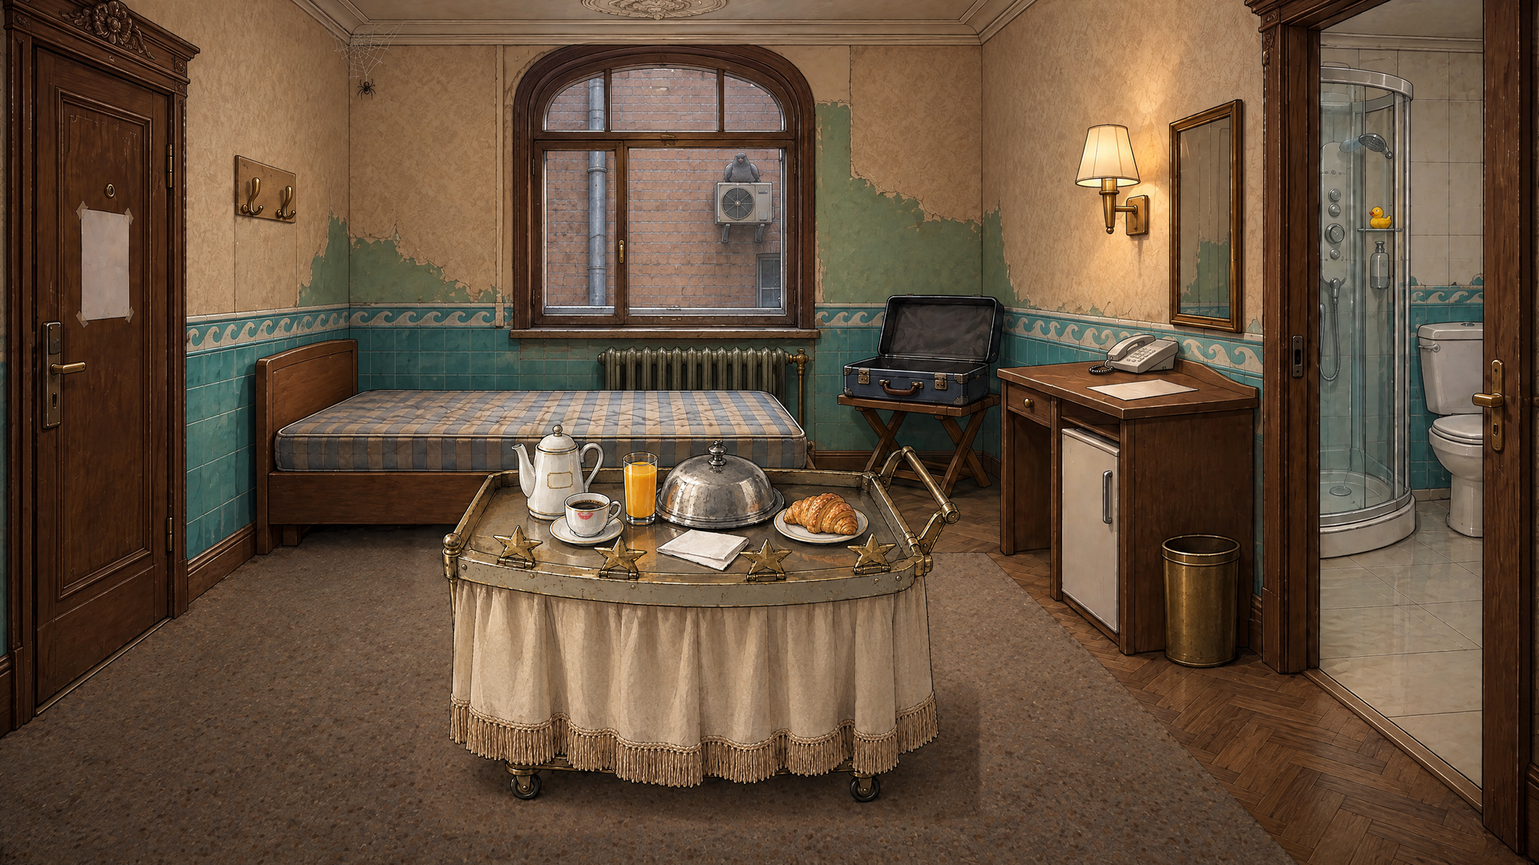
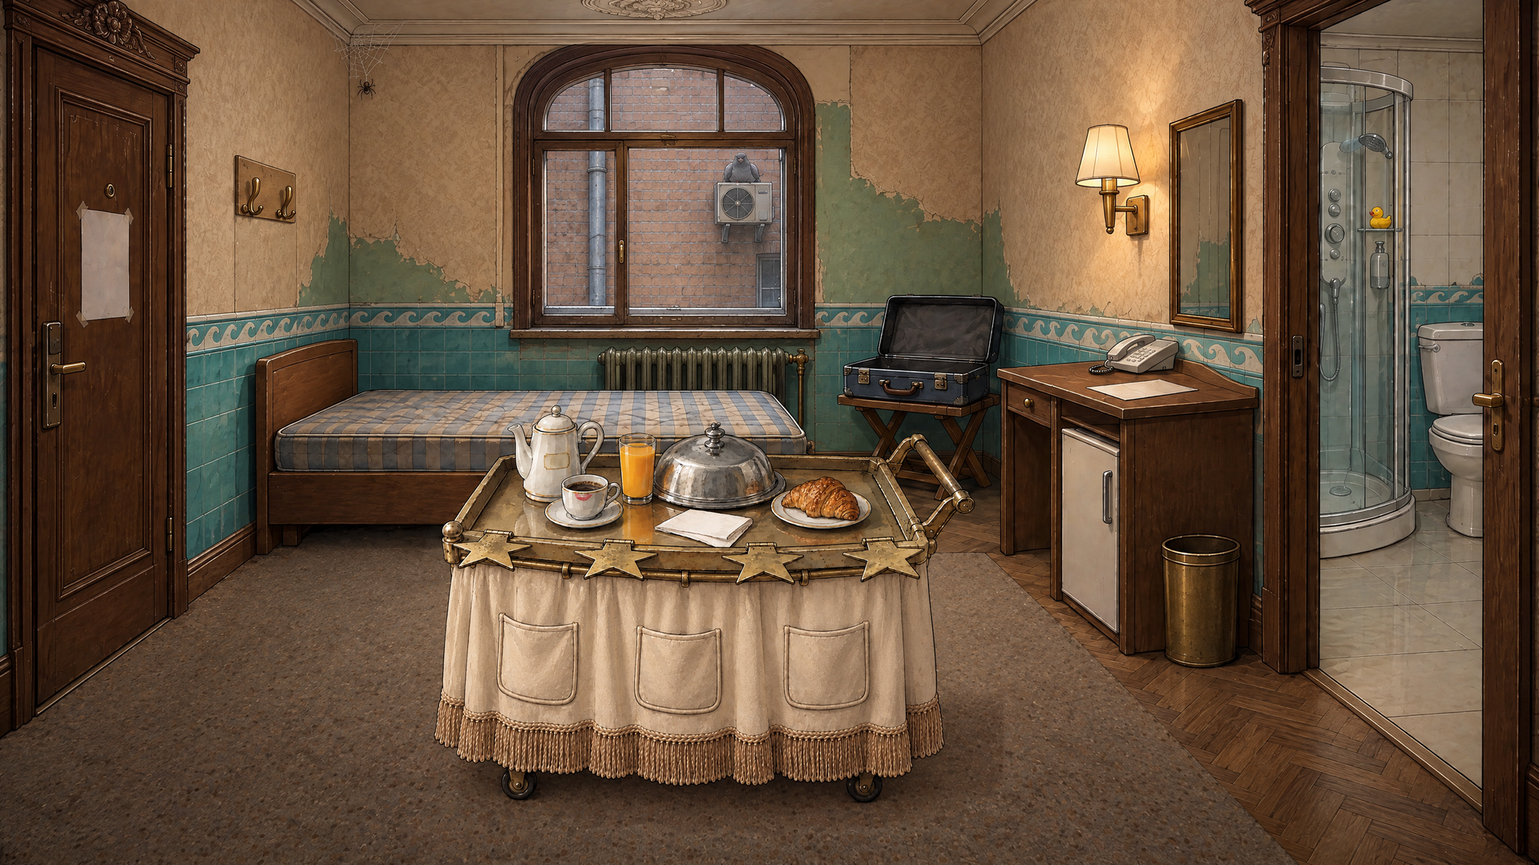
Z03-состояния приняты автором (шторка А); на приёмку: шторка при откинутых звёздах и тележка в номере W1
- assets: st_z03_stars_folded, st_z03_skirt_open, st_z03_juice_empty; кадры-варианты в work/higgsfield/variants
- спека: st_z03_skirt_open_folded (слои шторки и звёзд не складываются)
- кандидаты cutouts_1010: st_z03_skirt_open_folded, st_w1_trolley, st_w1_trolley_folded (+alt), st_w1_juice_empty
- прежние st_w1_* из cutouts_0910 удалены как устаревшие
- лист sheet_1010_w1_trolley.png, статус

Claude-Session: https://claude.ai/code/session_01KtQKgqP4XoDbZ9H4UhrjXu

Changed region(s): [[0.2812, 0.4583, 0.6562, 0.9472]]

diff --git a/PROJECT_STATUS_HYDROUDAR.md b/PROJECT_STATUS_HYDROUDAR.md
@@ -4,6 +4,7 @@
 
 ## Точка входа для новой сессии
 
+- ★★★ **10.10.2026, вечер — тележка: Z03 принят, W1 на приёмке.** Автор принял новую `zoom_z03` (звёзды в ряд вдоль переднего борта) и её состояния `st_z03_stars_folded`, `st_z03_skirt_open` (вариант А — шторка вправо), `st_z03_juice_empty` — в `assets/` (кадры-варианты — `work/higgsfield/variants/`, `accept` в журнале). Слои «шторка» и «звёзды откинуты» друг на друга не ложатся — добавлено состояние `st_z03_skirt_open_folded` (спека: графика 263). **Ждёт автора:** лист `work/higgsfield/sheet_1010_w1_trolley.png` — `st_z03_skirt_open_folded`, `st_w1_trolley`, `st_w1_juice_empty`, `st_w1_trolley_folded` (вар. 1 на петлях, как в Z03, рекомендован; вар. 2 на кольцах — `alt/`); кандидаты и параметры — `work/higgsfield/candidates/cutouts_1010/README.md`. Прежние `st_w1_*` (звёзды по углам) удалены. Дальше — тележка в W2/W4/W5, затем остаток пакета 2.
 - ★★★ **10.10.2026 — автор подтвердил правленые реплики тележки; шутка про хлам — дословно.** Строка автора «Вы хотите спросить, где голый мужчина прячет столько хлама? Не спрашивайте.» — в `Z04.map.take` (Акт II, третьей репликой после Изольды; `texts/AUTHOR_LINES.json`, ТЗ II), единственное осознанное исключение из запрета на четвёртую стену (`texts/STYLE_AUTHOR.md`). Итог Акта II и слой пересобраны; check_texts 0/0 ×4, тесты 146 OK. **Дальше — арт тележки:** новая `zoom_z03` (звёзды по углам горизонтально, юбка-шторка с кармашками), затем `st_z03_*`, `st_w1_trolley*`, тележка в W2/W4/W5.
 - ★★★ **09.10.2026, ночь (ещё позже) — устройство тележки, решение автора.** Звёзды по углам — горизонтальные откидные «крылья» за бортиком (как у настоящих столиков room service), откидываются наружу, к бортику; юбка — шторка на кольцах на вклёпанной штанге, с кармашками (там Лапидус возит вещи; автор: «не будем делать из этого проблему»); пластина 1908 года — на раме внутри, её прячет юбка (дыра исходного сценария: звёзды пластину закрыть не могли). Внесено: граф Акта I (`plate_revealed` — A04 или A08, не A06; AS21; солвер — 10 обязательных, 0 ошибок), сдача Акта I (P02 и «Изменения 10.2026»), ТЗ I 1.5 / II 1.9 / IV 1.3, тексты через `texts/rewrite/ACT1/2/4_TEXTS_EDITS.md` (8 слотов Акта I, `Z05.vitrine.push`, `SEQ.trolley_return`, `W5.cover.skirt`), итоги и слой пересобраны (check_texts 0/0 ×4, check_slot_flags 0, тесты 146 OK, шрифты PASS), спека (§1.4а, Z03, `st_w1_trolley*`, `st_z03_*`, `st_w5_trolley`, `ov_skirt_open`, §13), GDD, handoff (P02, signature tool). **Ждёт автора:** чтение правленых реплик; шутка автора «Вы хотите спросить, где голый мужчина прячет столько хлама? Не спрашивайте» — расходится с правилом «четвёртая стена не ломается» (решение автора 04.10.2026, WRITING_BIBLE, STYLE_AUTHOR) — вопрос автору; затем арт: новая `zoom_z03` → `st_w1_trolley*` (прежние кандидаты устарели).
 - ★★★ **09.10.2026, ночь (позже) — приёмка автора:** в `assets/` перенесены `st_w4_cabin_full` (с доской), `st_w4_board_floor`, `st_w4_ramp`, `st_w4_design_board`, `st_w2_cascade_on`, `st_w5_mark` и база W4 с мелом (accept в журнале). **Тележка — замечание автора:** звёзды стоят не вертикально, а горизонтально, выходят за бортик (иначе не мешают проезду); складываются наружу, прижимаясь к внешнему бортику. Это расходится с принятым `zoom_z03` (звёзды стоячие), с текстами Акта I (`ANC`-подсказка «Сложи четыре звезды внутрь», «под ними оказалась латунная пластина») и сдачей Акта I (P02: «сложены внутрь»). Вопрос автору — где пластина (предложение: на верхней кромке борта под внутренними половинами звёзд). До ответа `st_w1_trolley*` и Z03 не переделываются.

diff --git a/work/higgsfield/candidates/cutouts_0910/README.md b/work/higgsfield/candidates/cutouts_0910/README.md
@@ -1,6 +1,6 @@
 # Кандидаты 09.10.2026: новые состояния по решениям автора 08–09.10.2026 (спека §13)
 
-**09.10.2026: приняты автором и перенесены в `assets/`** — `st_w4_cabin_full`, `st_w4_board_floor`, `st_w4_ramp`, `st_w4_design_board`, `st_w2_cascade_on`, `st_w5_mark` (кадры-варианты — `work/higgsfield/variants/`), база W4 с мелом. В папке остаются только состояния тележки W1 — **устарели** (решение автора 09.10.2026 об устройстве тележки: звёзды по углам горизонтально, откидываются к бортику; юбка-шторка с кармашками; пластина на раме внутри). Будут сделаны заново после новой `zoom_z03`; `st_w1_juice_empty` переживёт, если тележка в номере сохранит стакан на том же месте. Таблица ниже сохраняет параметры принятых. После «да» — повторный запуск `tools/assets/cutout.py` с параметрами ниже без `--out`
+**09.10.2026: приняты автором и перенесены в `assets/`** — `st_w4_cabin_full`, `st_w4_board_floor`, `st_w4_ramp`, `st_w4_design_board`, `st_w2_cascade_on`, `st_w5_mark` (кадры-варианты — `work/higgsfield/variants/`), база W4 с мелом. Состояния тележки W1 из этой партии (звёзды по углам) устарели и удалены 10.10.2026; новые — `../cutouts_1010/`. Таблица ниже сохраняет параметры принятых. После «да» — повторный запуск `tools/assets/cutout.py` с параметрами ниже без `--out`
 (в `assets/gfx/cutouts/`, `cutouts.json` генерируется), кадры-варианты — в `work/higgsfield/variants/`,
 запись `accept` в `work/higgsfield/log.jsonl`. База W4 с мелом заменяет `assets/gfx/rooms/room_w4.png`
 только после приёмки (прежняя — в карантин `work/orig_gfx/`).
@@ -20,9 +20,9 @@
 | `st_w4_ramp` | f9da7be5 от `W4_OPEN` → `room_w4__st_w4_ramp.png` | база `W4_OPEN`, `--box 200,540,640,800 --thresh 30 --open 3 --close 15 --align 6 --grow 8 --feather 3 --base-name room_w4.png` |
 | `st_w4_design_board` | 592a1758 от `W4_DESIGN`; надпись «СНАШЕ» исправлена: участок 470,560–726,704 ×7,5 (097f97f7), вклеен прямоугольником 522,572–660,662 с растушёвкой 3 → `room_w4__st_w4_design_board.png` | база `W4_DESIGN`, `--box 455,530,725,700 --thresh 28 --open 3 --close 15 --align 6 --grow 8 --feather 3 --base-name room_w4.png` |
 | `st_w2_cascade_on` | e0a66d5c от `room_w2` → `room_w2__st_w2_cascade_on.png` | `--box 340,150,1730,580 --keep 950,90,1140,380 --keep 880,460,1000,560 --thresh 18 --open 5 --close 45 --align 6 --grow 10 --feather 4` |
-| `st_w1_trolley` | 2bce99fd от `room_w1` + эталон `zoom_z03` → `room_w1__st_w1_trolley.png` | `--box 530,520,1210,1030 --thresh 14 --open 3 --close 41 --align 6 --grow 12 --feather 3` |
-| `st_w1_trolley_folded` | 84b34ddd от кадра-варианта тележки (звёзды убраны внутрь борта, пластина открыта) → `room_w1__st_w1_trolley_folded.png` | как `st_w1_trolley` |
-| `st_w1_juice_empty` | 32989c5a от кадра-варианта тележки → `room_w1__st_w1_juice_empty.png` | база `room_w1 + st_w1_trolley`, `--box 760,545,845,675 --thresh 20 --open 1 --close 9 --align 6 --grow 4 --feather 2 --base-name room_w1.png` |
+| ~~`st_w1_trolley`~~ (удалено 10.10.2026) | 2bce99fd от `room_w1` + эталон `zoom_z03` → `room_w1__st_w1_trolley.png` | `--box 530,520,1210,1030 --thresh 14 --open 3 --close 41 --align 6 --grow 12 --feather 3` |
+| ~~`st_w1_trolley_folded`~~ (удалено 10.10.2026) | 84b34ddd от кадра-варианта тележки (звёзды убраны внутрь борта, пластина открыта) → `room_w1__st_w1_trolley_folded.png` | как `st_w1_trolley` |
+| ~~`st_w1_juice_empty`~~ (удалено 10.10.2026) | 32989c5a от кадра-варианта тележки → `room_w1__st_w1_juice_empty.png` | база `room_w1 + st_w1_trolley`, `--box 760,545,845,675 --thresh 20 --open 1 --close 9 --align 6 --grow 4 --feather 2 --base-name room_w1.png` |
 | `st_w5_mark` | afb7a60b от `room_w5` → `room_w5__st_w5_mark.png` | `--box 1050,495,1215,580 --thresh 25 --open 3 --close 15 --align 6 --grow 5 --feather 3` |
 
 Порядок слоёв W4: зеркало у стены → кабина → доска на полу / трап → лестница → куча → доска в куче.

diff --git a/work/higgsfield/candidates/cutouts_1010/README.md b/work/higgsfield/candidates/cutouts_1010/README.md
@@ -1,13 +1,15 @@
-# Кандидаты 10.10.2026: состояния нового Z03 (тележка по решению автора)
+# Кандидаты 10.10.2026: тележка по решению автора (новый Z03 и номер W1)
 
-База — принятый `assets/gfx/zooms/zoom_z03.png` (job fe15a490, 10.10.2026). Кадры-варианты — `zoom_z03__st_z03_*.png` здесь же.
-После приёмки — повторный запуск `tools/assets/cutout.py` без `--out`.
+**Приняты автором 10.10.2026 и перенесены в `assets/`** («шторка А. остальное принимаю»): `zoom_z03` (job fe15a490), `st_z03_stars_folded` (ccfc9717), `st_z03_skirt_open` (вариант А, шторка вправо, f3e80c9a), `st_z03_juice_empty` (61ea23c9); кадры-варианты — `work/higgsfield/variants/`, параметры вырезки — в записях `accept` журнала `work/higgsfield/log.jsonl`.
 
-| Состояние | Вариант (job) | Вырезка |
+На приёмке (лист `work/higgsfield/sheet_1010_w1_trolley.png`). После «да» — повторный запуск `tools/assets/cutout.py` с параметрами ниже без `--out` (в `assets/gfx/cutouts/`), кадры-варианты — в `work/higgsfield/variants/`, запись `accept` в журнал.
+
+| Состояние | Кадр-вариант (job) | Вырезка |
 |---|---|---|
-| `st_z03_stars_folded` | ccfc9717 (проба 2: контур юбки совпал с базой; проба 1 ba775b23 — юбка уже, шов по бокам) | `--box 160,380,1760,720 --thresh 30 --open 3 --close 21 --align 8 --grow 8 --feather 3` |
-| `st_z03_skirt_open` (А, шторка вправо) | f3e80c9a | `--box 200,440,1760,1080 --thresh 18 --open 3 --close 41 --align 8 --grow 10 --feather 3` |
-| `st_z03_skirt_open` (Б, шторка влево; `alt/`) | 996db328 | то же |
-| `st_z03_juice_empty` | 61ea23c9 | `--box 720,40,920,340 --thresh 18 --open 1 --close 15 --align 8 --grow 5 --feather 3` |
+| `st_z03_skirt_open_folded` (новое: шторка отодвинута при откинутых звёздах — A04 после A06) | 986cb9db от `zoom_z03` → `zoom_z03__st_z03_skirt_open_folded.png`; шторка вправо, как принятый вариант А; пластина 1908 видна между звёздами | база `zoom_z03`, `--box 160,380,1760,1080 --thresh 18 --open 3 --close 41 --align 8 --grow 10 --feather 3` |
+| `st_w1_trolley` | 4bd144de от `room_w1` + эталон новый `zoom_z03` → `room_w1__st_w1_trolley.png` | база `room_w1`, `--box 520,500,1240,1050 --thresh 14 --open 3 --close 41 --align 6 --grow 12 --feather 3` |
+| `st_w1_trolley_folded` (вар. 1, звёзды на петлях — как в Z03) | 53232ecb от кадра тележки → `room_w1__st_w1_trolley_folded.png` | как `st_w1_trolley` |
+| `st_w1_trolley_folded` (вар. 2, звёзды на кольцах; `alt/`) | 532f1bbe | как `st_w1_trolley` |
+| `st_w1_juice_empty` | 8e0f1de5 от кадра тележки → `room_w1__st_w1_juice_empty.png`; стакан стоит там же и при откинутых звёздах — слой годится поверх обеих тележек | база `room_w1 + st_w1_trolley`, `--box 755,525,850,645 --thresh 20 --open 1 --close 9 --align 6 --grow 4 --feather 2 --base-name room_w1.png` |
 
-Нужен ещё кадр «шторка отодвинута при откинутых звёздах» (A04 возможна и после A06): слои `stars_folded` и `skirt_open` друг на друга чисто не ложатся — рисуется после выбора варианта шторки.
+Отклонены до показа: шторка+звёзды проба 1 (шов по краю юбки); тележка в номере 2 (мелковата), 3 (наезжает на кровать). Прежние `st_w1_*` из `cutouts_0910` (звёзды по углам) удалены — устарели по решению автора 09–10.10.2026.

diff --git a/docs/BJ3_ASSET_SPEC.md b/docs/BJ3_ASSET_SPEC.md
@@ -11,7 +11,7 @@
 | Экраны (вайды), включая два вида «из-под юбки» | `assets/gfx/rooms/` | 1920×1080 RGB | 8 |
 | Зумы Z01–Z13 и три крупных плана Z04 | `assets/gfx/zooms/` | 1920×1080 RGB | 16 |
 | Кадры немых сцен | `assets/gfx/frames/` | 1920×1080 RGB | 18 |
-| Состояния (сдаются полным кадром-вариантом, §1.2) | `assets/gfx/cutouts/` | сдача 1920×1080 RGB → у меня RGBA-вырезка | 128 |
+| Состояния (сдаются полным кадром-вариантом, §1.2) | `assets/gfx/cutouts/` | сдача 1920×1080 RGB → у меня RGBA-вырезка | 129 |
 | Оверлеи юбки тележки | `assets/gfx/cutouts/` | 1920×1080 RGBA | 2 |
 | Портреты (с вариантами пены) | `assets/gfx/portraits/` | 512×512 RGBA | 42 (+4 Предка из BJ2) |
 | Иконки предметов | `assets/gfx/icons/` | 128×128 RGBA | 9 |
@@ -21,7 +21,7 @@
 | Шрифты | `assets/fonts/` | TTF | 0 — поставлены этой сессией (§8) |
 | Звуки, амбиенты, музыка | `assets/audio/` | OGG | 59 (+9 из BJ2, §9.5) |
 
-Итого генерировать: **графика 262 файла, звук 59 файлов.** Точные списки — в таблицах ниже; счёт сверяет `tools/check_asset_spec.py`.
+Итого генерировать: **графика 263 файла, звук 59 файлов.** Точные списки — в таблицах ниже; счёт сверяет `tools/check_asset_spec.py`.
 
 ## 1. Общие правила
 
@@ -303,6 +303,7 @@
 | `st_z02_lemonade_empty.png` | бутылка лимонада пуста | `shown(PROBE.lemonade)` |
 | `st_z03_stars_folded.png` | звёзды откинуты наружу и висят вдоль внешнего бортика | `stars_folded` |
 | `st_z03_skirt_open.png` | шторка юбки отодвинута, ткань собрана на кольцах: внутри пустая камера, старая латунная рама 1908 года, нижний поручень и на раме инвентарная пластина (поле чистое) | кадр `Z03.skirt.use`; пластина — `plate_revealed` |
+| `st_z03_skirt_open_folded.png` | то же при откинутых звёздах: звёзды висят вдоль бортика, шторка отодвинута вправо, внутри рама, поручень, пластина (вместо пары `st_z03_stars_folded` + `st_z03_skirt_open`: слои чисто не совмещаются; добавлено 10.10.2026) | кадр `Z03.skirt.use` ∧ `stars_folded` |
 | `st_z03_juice_empty.png` | стакан сока пуст | `shown(PROBE.juice)` |
 | `st_z04_folder.png` | папка лежит на мокром круге | ¬`counter_notice_read` |
 | `st_z04_map.png` | вкладыш с картой в подставке | ¬`has_hotel_map` |
@@ -479,7 +480,7 @@
 
 | Слот | Кадр |
 |---|---|
-| `Z03.skirt.use` | `zoom_z03.png` + `st_z03_skirt_open.png` |
+| `Z03.skirt.use` | `zoom_z03.png` + `st_z03_skirt_open.png` (при `stars_folded` — `zoom_z03.png` + `st_z03_skirt_open_folded.png`) |
 | `TALK.req.cut` | `cu_z04_forms.png` + `st_cu_z04_forms_stapled.png`, затем `zoom_z04.png` + `st_z04_drawer_kefir.png` |
 | `TALK.iz.folder` | `cu_z04_folder_key.png` |
 | `TALK.iz.key` | `cu_z04_folder_key.png` |
